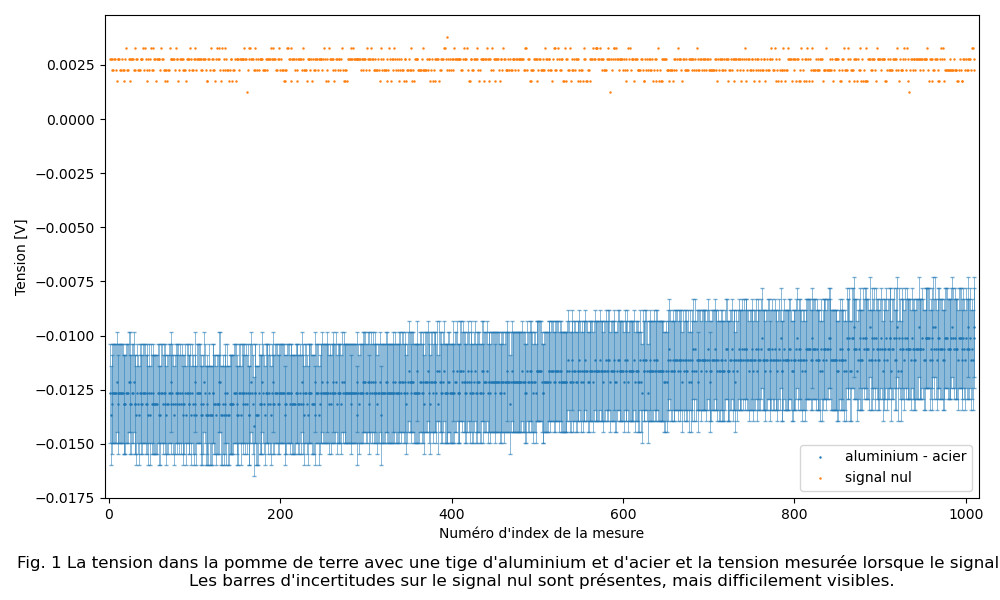
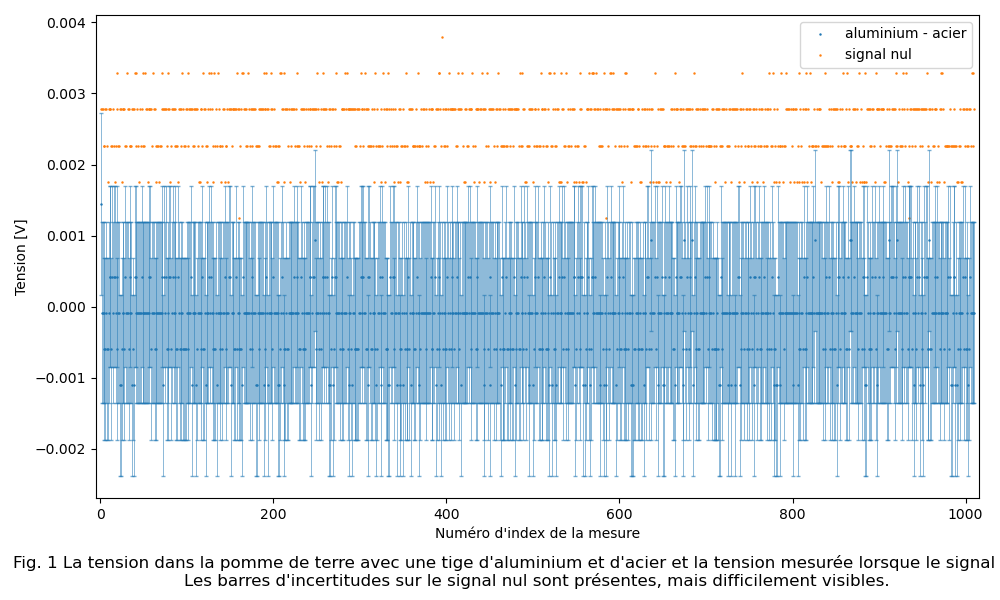
Rajout offset

diff --git a/Labo1/Programmation/Graphique_tension_non_constante.py b/Labo1/Programmation/Graphique_tension_non_constante.py
@@ -2,6 +2,7 @@ import pandas as pd
 import matplotlib.pyplot as plt
 import numpy as np
 import os
+from pathlib import Path
 
 
 # Choisir le directory pour les figures et le créer s'il n'existe pas.
@@ -50,18 +51,23 @@ nom = {0: 'convertisseur',
        12: "circuit"
        }
 
-num = 7     # L'index du fichier utilisé.
+num = 6     # L'index du fichier utilisé.
 filepath = files[num]
 
 def read(file_name):
     df = pd.read_csv(file_name, sep="\t", skiprows=22, decimal=",")
     df = df.iloc[:, 1:].copy()
 
-    col = 1 # On ne prend qu'une seule colonne si nous n'avons qu'une seule colonne de données.
-    if df.shape[1] == 3:    # On prend 2 colonnes si on a deux colonnes de données (3 colonnes données par pandas).
+    col = 1
+    if df.shape[1] == 3:
         col = 2
 
-    return df.to_numpy()[:, :col]
+    arr = df.to_numpy()  
+    if Path(file_name).name == "tension_patate_aluacier_90925_01.lvm":
+        arr[:, 0] += 0.0085  
+
+    return arr[:, :col]
+
 
 
 def moyenne(file_name):
